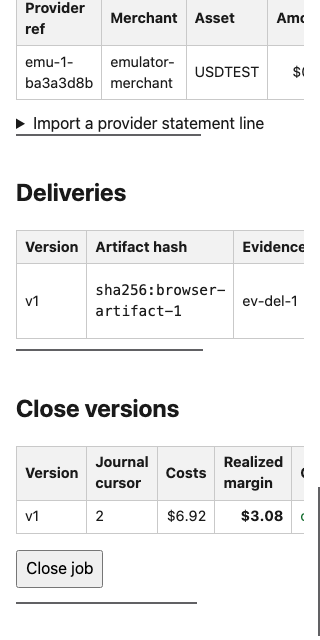
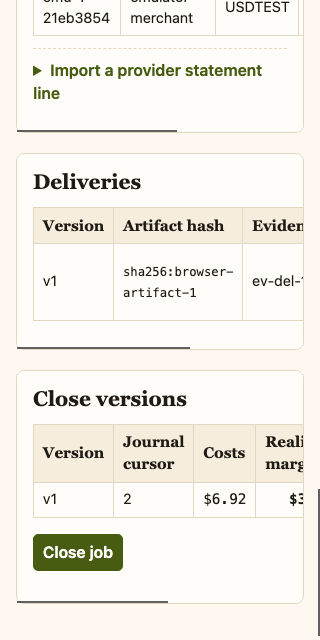
console: warm-paper visual pass on the operator workflow
Restyles the shared layout in place — no markup or route changes:
paper canvas #FEF8F0 / ink #1F1A14, warm cards #FFFDF9 on border
#E3D7C2, olive #485C11 primary actions, error #A23A1A, muted secondary
text at accessible contrast, Crimson Text→Georgia editorial headings,
DM Sans→system UI stack, monospace figures for money and summary
metrics. Focus rings, 320px horizontal containment, reduced-motion and
native controls preserved; state colors (ok/warn/bad, denial shortfall,
incomplete closes) kept meaningfully distinct.

Re-verified in the real browser: 28/28 checks green, evidence and
screenshots refreshed.

diff --git a/src/http/console.ts b/src/http/console.ts
@@ -17,27 +17,47 @@ export function layout(body: string, actor?: Actor | null): string {
 <meta name="viewport" content="width=device-width, initial-scale=1">
 <title>JobMargin</title>
 <style>
-:root { --fg:#1a1a1a; --muted:#555; --line:#c9c9c9; --accent:#0b5fff; --ok:#146c2e; --warn:#8a4b00; --bad:#a31212; }
+:root {
+  --paper:#FEF8F0; --ink:#1F1A14; --card:#FFFDF9; --line:#E3D7C2;
+  --accent:#485C11; --accent-hover:#3A4A0D; --accent-ink:#FFFFFF;
+  --muted:#5F564A; --tint:#F6EDDD;
+  --ok:#2E5A18; --warn:#8A4B00; --bad:#A23A1A;
+  --font-ui:'DM Sans', ui-sans-serif, system-ui, -apple-system, 'Segoe UI', Roboto, sans-serif;
+  --font-display:'Crimson Text', Georgia, 'Times New Roman', serif;
+  --font-mono:ui-monospace, 'SF Mono', 'Cascadia Mono', Menlo, Consolas, monospace;
+}
 * { box-sizing: border-box; }
-body { font-family: system-ui, sans-serif; color: var(--fg); margin: 0; line-height: 1.45; }
-header { border-bottom: 1px solid var(--line); padding: .75rem 1rem; display:flex; gap:1rem; align-items:baseline; flex-wrap:wrap; }
-header a { color: var(--accent); }
-main { padding: 1rem; max-width: 62rem; }
+body { font-family: var(--font-ui); background: var(--paper); color: var(--ink); margin: 0; line-height: 1.45; }
+h1, h2, h3 { font-family: var(--font-display); font-weight: 600; line-height: 1.2; margin: .1em 0 .4em; }
+h1 { font-size: 1.8rem; } h2 { font-size: 1.3rem; } h3 { font-size: 1.05rem; }
+a { color: var(--accent); text-underline-offset: .15em; }
+a:hover { color: var(--accent-hover); }
+header { border-bottom: 1px solid var(--line); padding: .75rem 1rem; display:flex; gap:1rem; align-items:baseline; flex-wrap:wrap; background: var(--card); }
+header strong { font-family: var(--font-display); font-size: 1.15rem; }
+main { padding: 1rem; max-width: 62rem; margin: 0 auto; }
 table { border-collapse: collapse; width: 100%; margin: .75rem 0; }
-th, td { border: 1px solid var(--line); padding: .35rem .5rem; text-align: left; font-size: .9rem; }
-th { background: #f2f2f2; }
-label { display: block; margin: .5rem 0 .15rem; font-size: .9rem; }
-input, select, button { font: inherit; padding: .35rem .5rem; }
-button { cursor: pointer; }
+th, td { border: 1px solid var(--line); padding: .4rem .55rem; text-align: left; font-size: .9rem; }
+th { background: var(--tint); font-family: var(--font-display); font-size: .95rem; font-weight: 600; }
+td { background: var(--card); }
+label { display: block; margin: .55rem 0 .2rem; font-size: .9rem; font-weight: 500; }
+input, select, button { font: inherit; padding: .4rem .55rem; max-width: 100%; }
+input, select { background: var(--card); color: var(--ink); border: 1px solid var(--line); border-radius: 4px; }
+button { cursor: pointer; background: var(--accent); color: var(--accent-ink); border: 1px solid var(--accent); border-radius: 5px; font-weight: 600; }
+button:hover { background: var(--accent-hover); }
+button:active { transform: translateY(1px); }
+td button { padding: .25rem .5rem; font-size: .85rem; }
+summary { cursor: pointer; color: var(--accent); font-weight: 600; padding: .3rem 0; }
+details { border-top: 1px dashed var(--line); padding: .35rem 0; }
 :focus-visible { outline: 3px solid var(--accent); outline-offset: 1px; }
 .muted { color: var(--muted); }
 .ok { color: var(--ok); } .warn { color: var(--warn); } .bad { color: var(--bad); }
-.flash { border:1px solid var(--line); background:#f6f8ff; padding:.5rem .75rem; margin:.5rem 0; }
-section { margin: 1.25rem 0; overflow-x: auto; }
+.flash { border:1px solid var(--line); border-left:4px solid var(--accent); background:var(--tint); padding:.5rem .75rem; margin:.5rem 0; border-radius:4px; }
+section { margin: 1.25rem 0; overflow-x: auto; background: var(--card); border: 1px solid var(--line); border-radius: 8px; padding: .9rem 1rem 1rem; }
 .summary { display:grid; grid-template-columns:repeat(auto-fit,minmax(9rem,1fr)); gap:.5rem; margin:.75rem 0; }
-.summary div { border:1px solid var(--line); padding:.5rem; }
-.summary dt { font-size:.8rem; color:var(--muted); } .summary dd { margin:0; font-weight:600; font-variant-numeric:tabular-nums; }
-.money { font-variant-numeric: tabular-nums; text-align: right; }
+.summary div { border:1px solid var(--line); border-radius:6px; padding:.5rem .6rem; background:var(--paper); }
+.summary dt { font-size:.8rem; color:var(--muted); } .summary dd { margin:0; font-weight:600; font-family:var(--font-mono); font-variant-numeric:tabular-nums; }
+.money { font-family: var(--font-mono); font-variant-numeric: tabular-nums; text-align: right; }
+code { font-family: var(--font-mono); font-size: .85em; }
 @media (prefers-reduced-motion: reduce) { * { animation: none !important; transition: none !important; } }
 </style>
 </head>

diff --git a/build-progress/jobmargin/BROWSER-RESULT.md b/build-progress/jobmargin/BROWSER-RESULT.md
@@ -1,4 +1,4 @@
-# Browser check result — 2026-11-20T06:55:57.572Z
+# Browser check result — 2026-11-20T08:38:59.951Z
 
 | Check | Expected | Actual |
 |---|---|---|
@@ -8,7 +8,7 @@
 | focus outline visible | non-none outline on keyboard focus | solid 3px |
 | lead sign-in lands on queue | /ui/jobs | /ui/jobs |
 | job created via console form | listed in queue | listed |
-| job page opened from console | job detail at /ui/jobs/<id> | /ui/jobs/36bb101a-0a04-41b5-ab47-6e23aa0d70e7 |
+| job page opened from console | job detail at /ui/jobs/<id> | /ui/jobs/f7465ef8-b165-45db-a5a9-2edf9aa9ba6e |
 | quote locked | locked status visible | locked |
 | headroom shown pre-reservation | $0.20 | $0.20 |
 | two denials shown with code | 2 × INSUFFICIENT_HEADROOM | 2 found |
